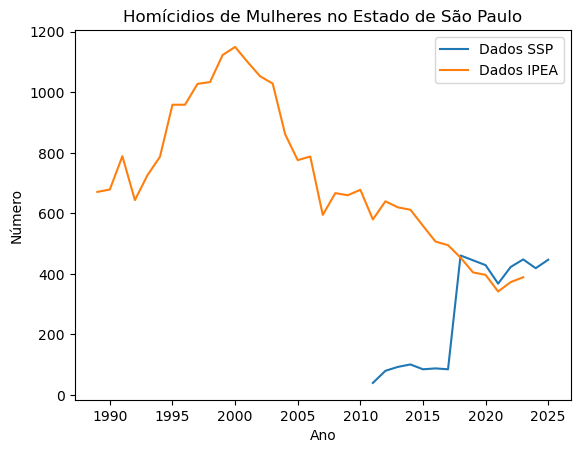
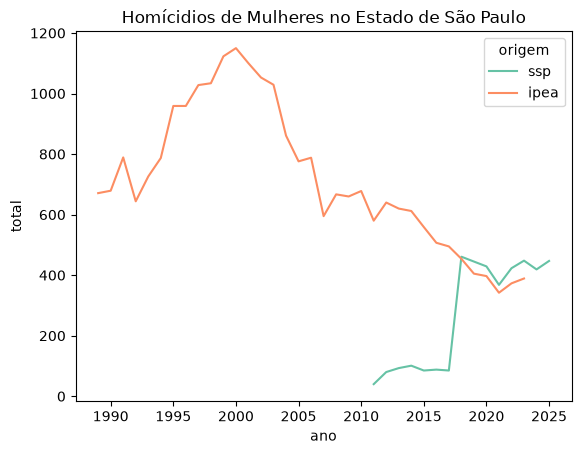
feat: trabalhando com estatistica desc

diff --git a/notebooks/descritiva.py b/notebooks/descritiva.py
@@ -1,0 +1,34 @@
+import matplotlib.pyplot as plt
+import seaborn as sns
+import numpy as np
+
+ax = sns.lineplot(dfH, x="ano", y="total", hue="origem", palette=sns.color_palette("Set2"))
+ax.set_title("Homícidios de Mulheres no Estado de São Paulo")
+plt.show()
+
+
+ax = sns.lineplot(dfH, x="ano", y="total", hue="origem", palette=sns.color_palette("Set2"))
+ax.set_title("Homícidios de Mulheres no Estado de São Paulo")
+ax.set_xlim(dfH[dfH["origem"] == 'ssp']['ano'].min(),
+             dfH[dfH["origem"] == "ipea"]['ano'].max())
+plt.show()
+
+
+dfH.drop(columns=["index"], inplace=True)
+
+
+diff = pd.concat([dfH[(dfH["origem"] == 'ssp') & (dfH['ano'] <= 2023 ) ].set_index("ano"),dfH[(dfH["origem"] == 'ipea') & (dfH['ano'] >= 2011 ) ].set_index("ano") ], axis=1)
+
+diff.columns.values[0] , diff.columns.values[2]= "ssp", "ipea"
+
+diff = diff.drop(columns=["origem"])
+
+diff["diferenca"] = np.abs(diff["ssp"] - diff["ipea"])
+
+
+plt.figure(dpi=500)
+ax = sns.lineplot(diff, x="ano", y="diferenca")
+ax.set_title("Difença entre número de casos entre SSP e IPEA no Estado de SP")
+ax.set_ylabel("diferença")
+ax.set_xticks(range(2011,2024, 2))
+plt.show()
